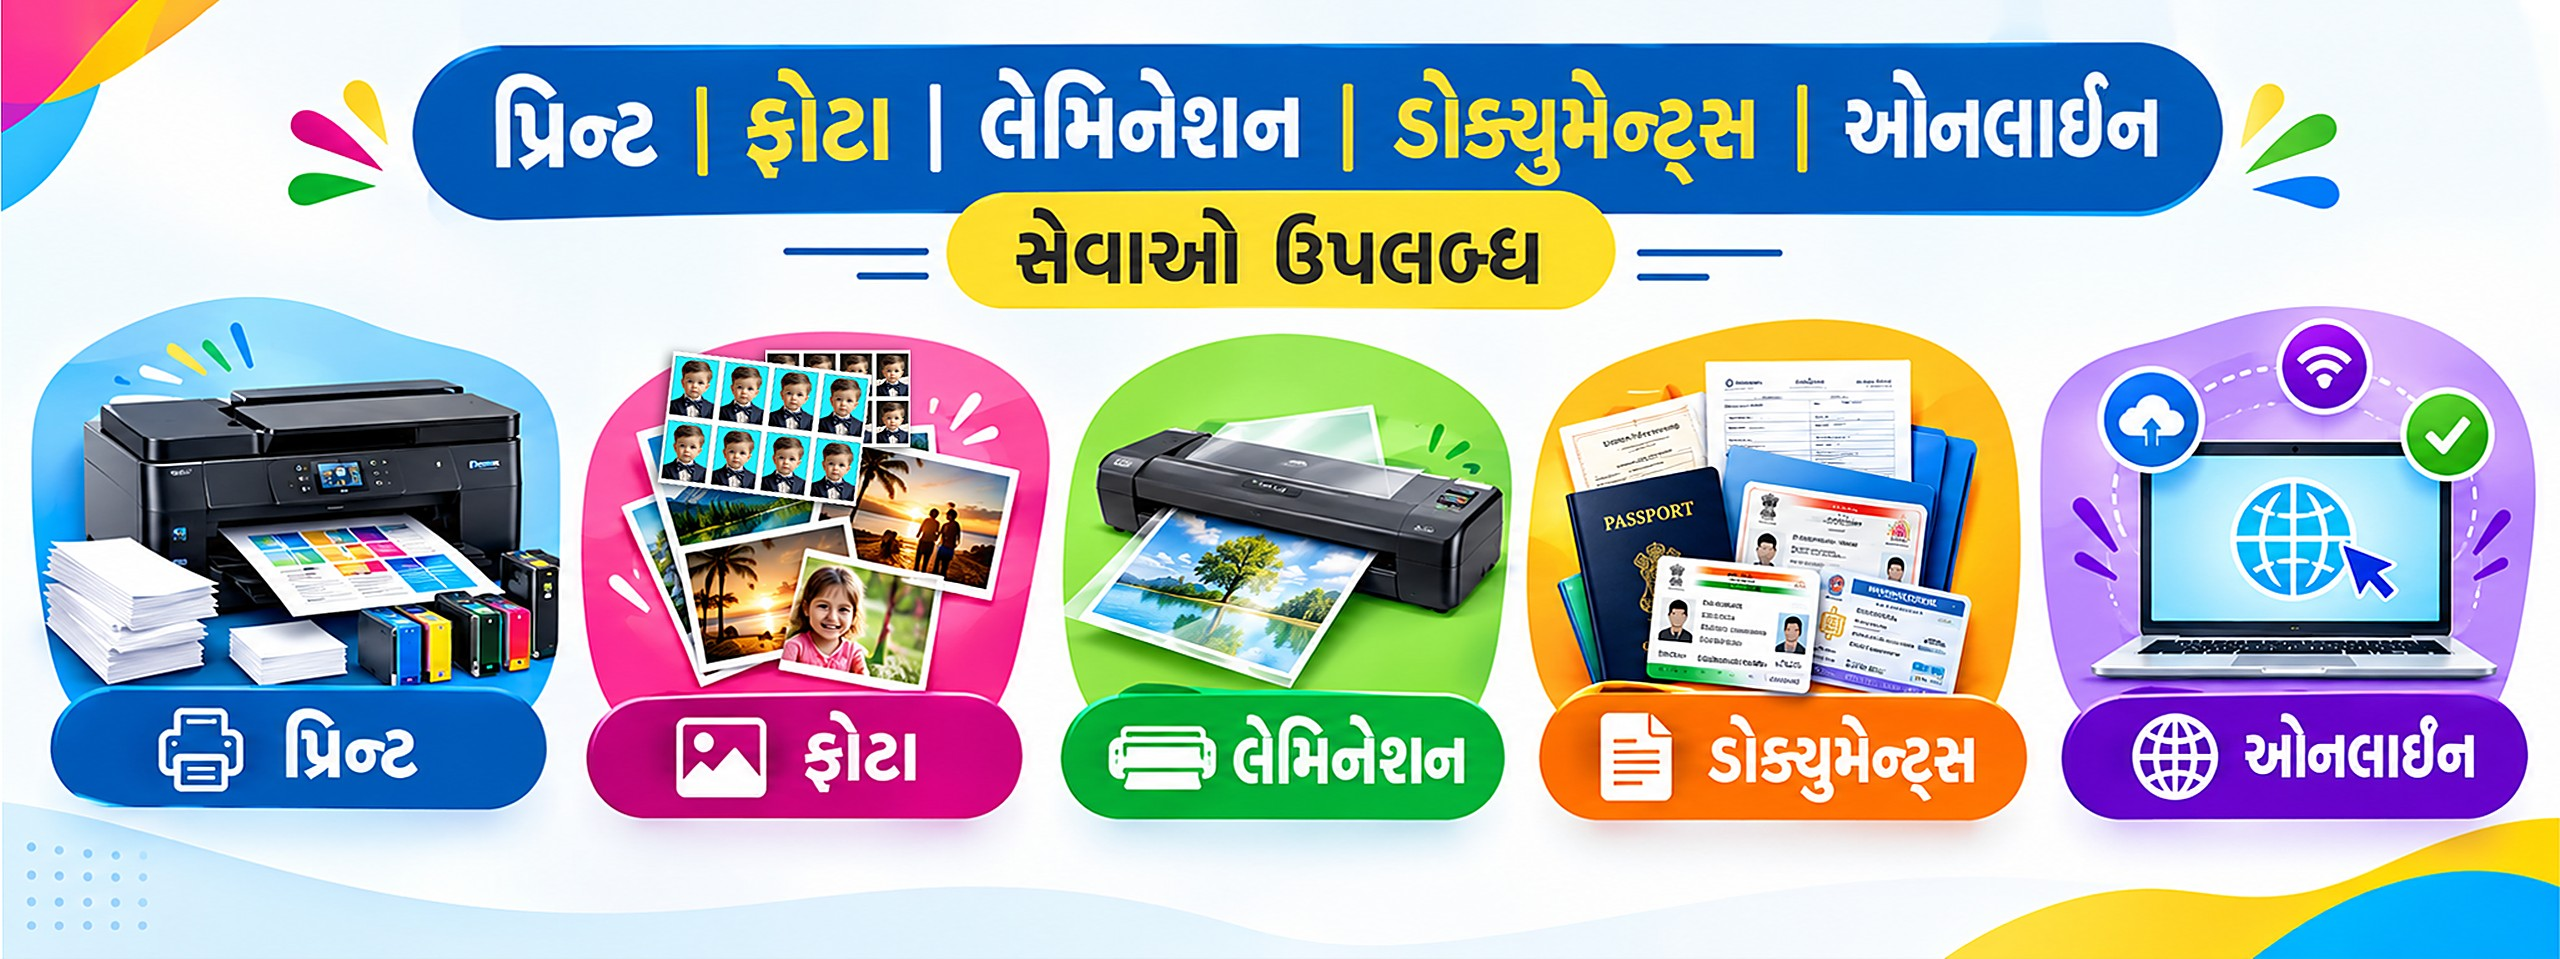
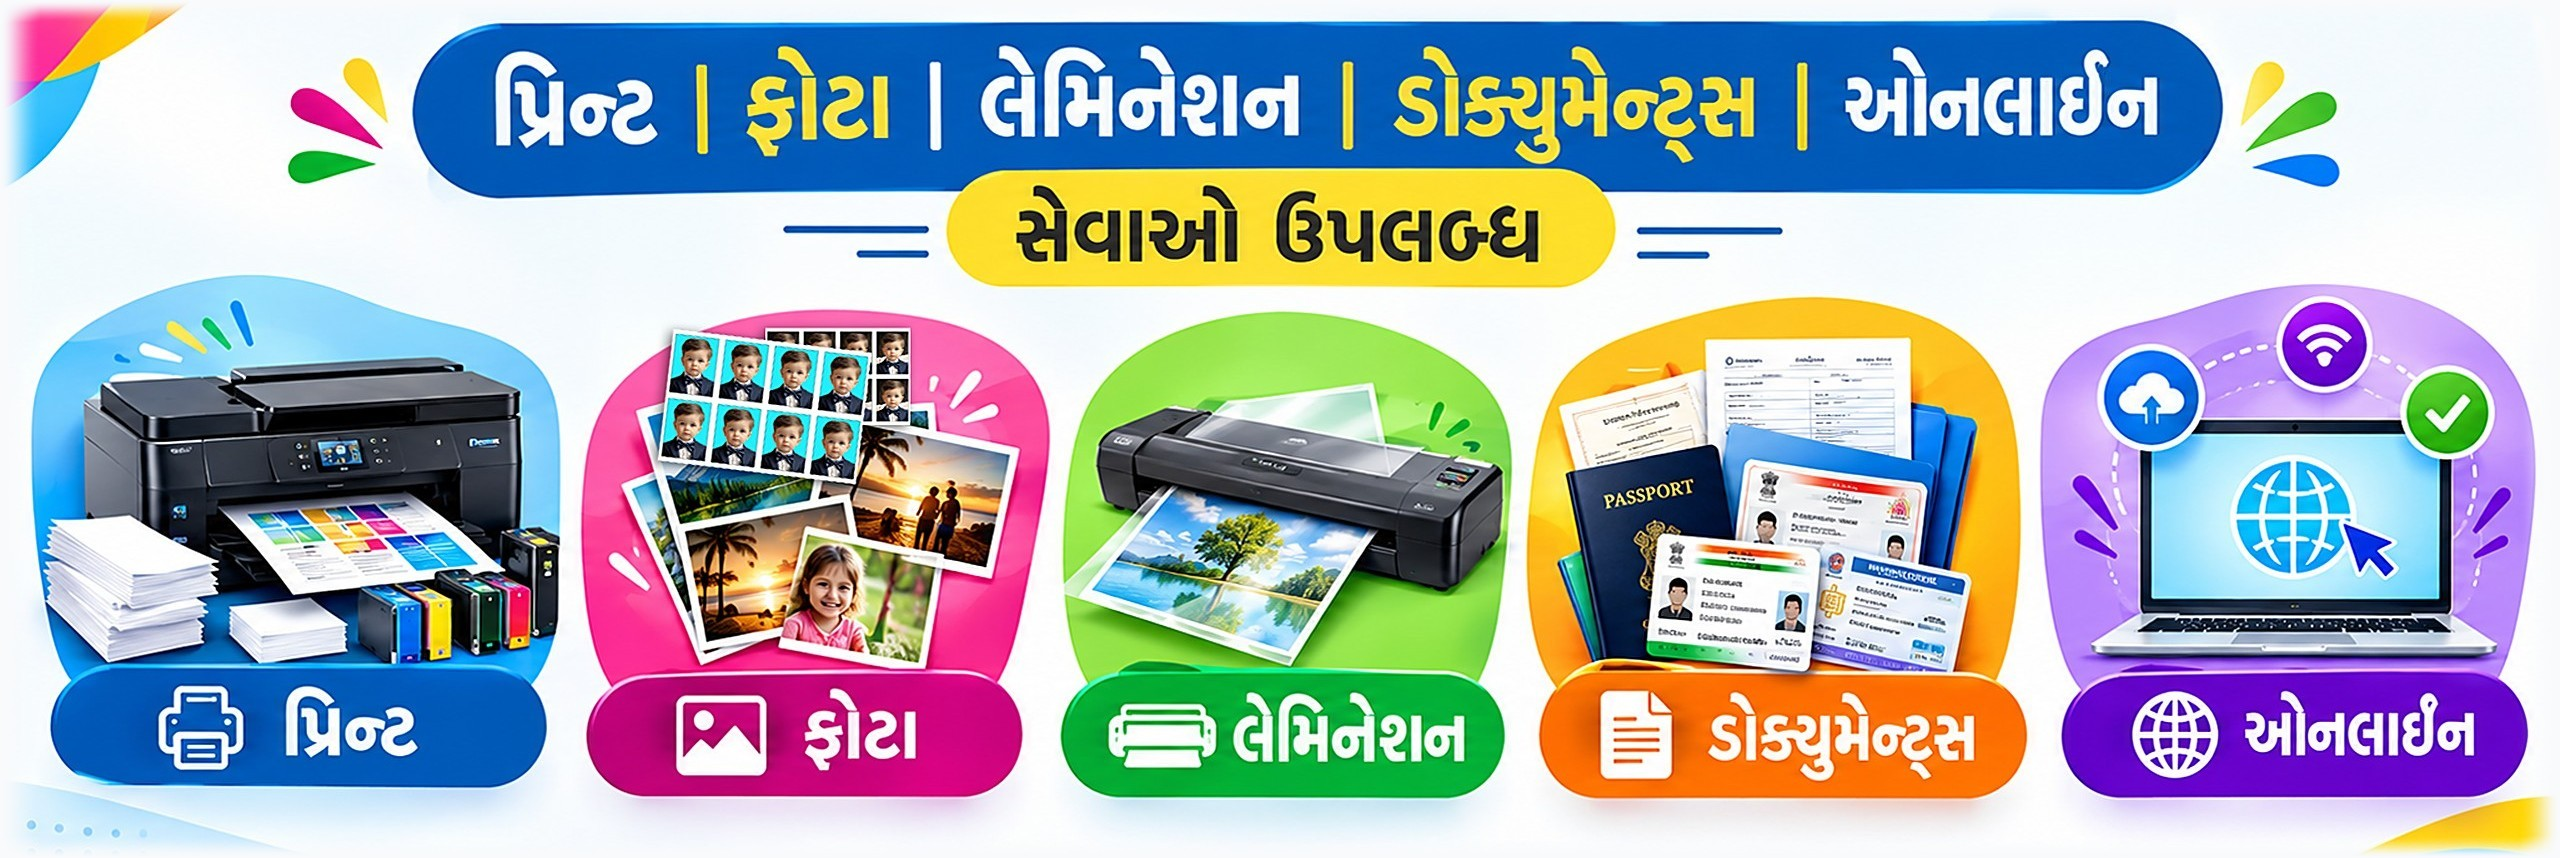
Add files via upload

diff --git a/index.html b/index.html
@@ -81,7 +81,7 @@
         <!-- Hero banner -->
         <section style="margin-bottom:20px">
             <h2 style="position:absolute;width:1px;height:1px;overflow:hidden;clip:rect(0,0,0,0);white-space:nowrap">ઝેરોક્ષ | ફોટા | લેમિનેશન | ઓનલાઈન</h2>
-            <img src="banner.jpg" alt="દર્શન ફોટોઝ એન્ડ ઝેરોક્ષ - પ્રિન્ટ, ફોટા, લેમિનેશન, ડોક્યુમેન્ટ્સ, ઓનલાઈન સેવાઓ ઉપલબ્ધ" width="2560" height="959" fetchpriority="high" style="display:block;width:100%;height:auto;border-radius:10px;box-shadow:0 10px 30px rgba(15,23,42,.25);border:2px solid rgba(251,191,36,.6)">
+            <img src="banner.jpg?v=3" alt="દર્શન ફોટોઝ એન્ડ ઝેરોક્ષ - પ્રિન્ટ, ફોટા, લેમિનેશન, ડોક્યુમેન્ટ્સ, ઓનલાઈન સેવાઓ ઉપલબ્ધ" width="2560" height="858" fetchpriority="high" style="display:block;width:100%;max-width:960px;margin:0 auto;height:auto;">
         </section>
 
         <!-- Filter chips -->
